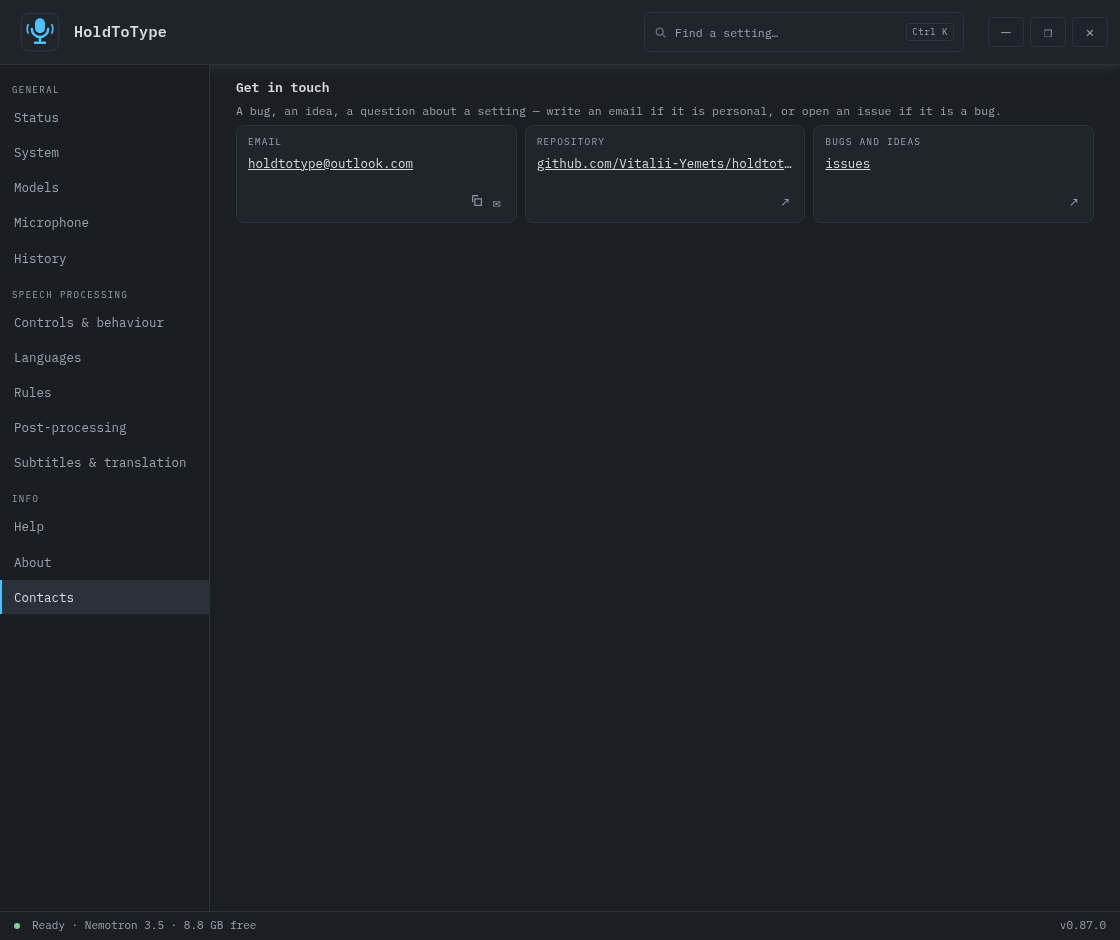
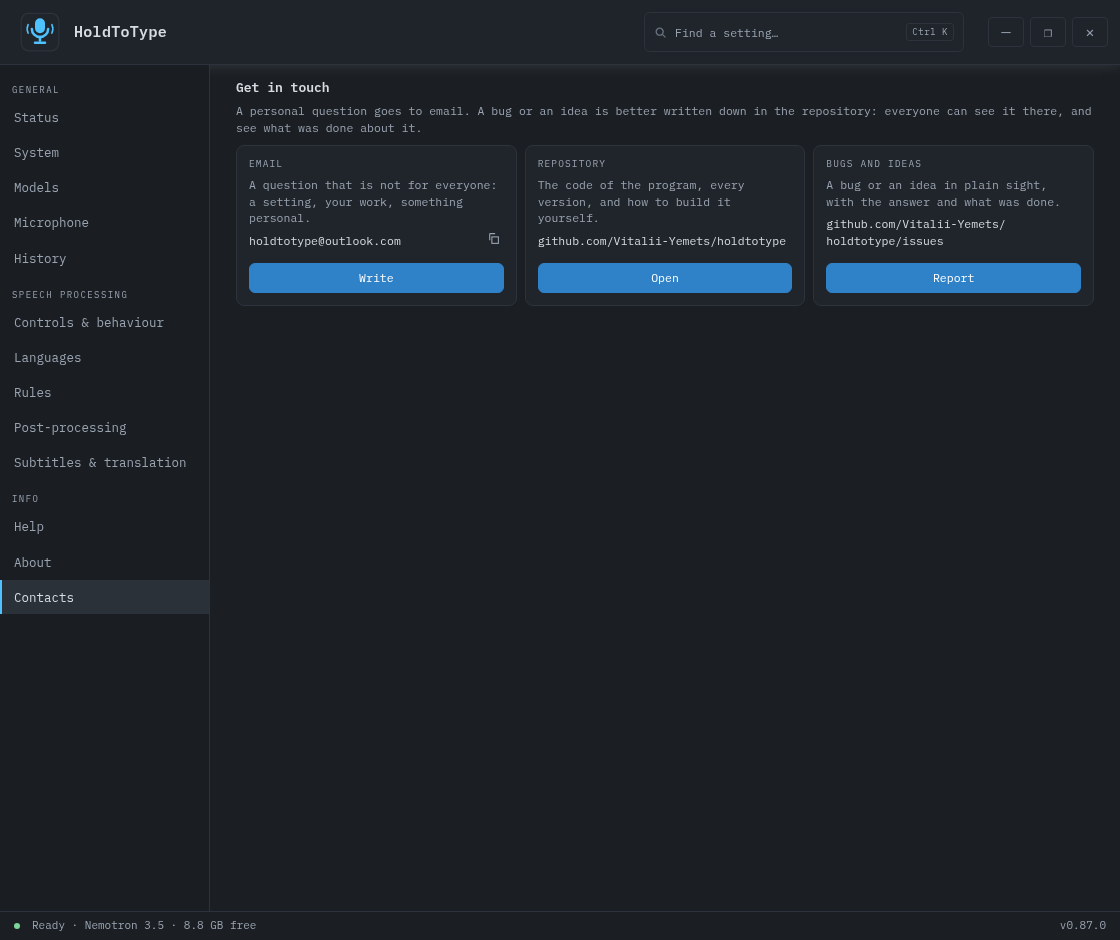
the readme and its system and contacts shots show the design cards and the contact cards

diff --git a/README.md b/README.md
@@ -74,7 +74,7 @@ Every shot below is the Editor design, the default: dark grey with a blue accent
 - 🗣 **Voice commands** — "new line", "new paragraph", "cancel", or your own phrase that drops in any text. "Delete that", said on its own, erases what the program inserted last, if nothing was typed or clicked since and the window is the same. Said at the end of a dictation, "as a heading", "as a list", "with a capital", "in quotes" or "no full stop" shapes that phrase; said on its own, it shapes the next one. Text already in the window is never edited. One button fills the list in your language. They run after the replacements, so prompts and translation get the finished text. In typing mode a line break is typed as a real Enter, which in a chat box sends the message — that is the point of the command. The line breaks the engine puts between its own segments are joined back into spaces first, so only the breaks you asked for reach the keyboard.
 - 🕘 **History of dictations** — off by default; turn it on and the last N dictations stay on this machine as text (never audio), searchable by text or by the program they went into, one click to copy, one to paste it back into the window you came from, one to wipe them all. The list of programs nothing is ever recorded from — password managers, banking apps — sits next to the switch and is never folded away. The retention you set is enforced when the history is opened and whenever you change it, not only when the next dictation arrives.
 - 📖 **Recognition dictionary** — terms and abbreviations hint rare words to Whisper. A starter set of development and internet vocabulary comes preinstalled and follows the recognition language; write your own and it is never touched again. When a dictation is translated, the hint switches to the target language, so the output vocabulary matches the output. Only Whisper models read it — the page says so plainly, since GigaAM, Parakeet and the rest never see the hint.
-- 🎨 **Design and colour, kept apart** — seven designs, all set in one face, IBM Plex Mono, carried inside the exe so they read the same on any machine. Editor is the default: dark grey with a blue accent, filled blue buttons for the main action of each section, grey for the rest, red for the destructive ones. Fluent follows the Windows 11 settings app — light-blue accent, a toggle that fills with the accent and carries a dark knob. Studio is graphite with orange, corners of three and four pixels, the look of an audio editor. Soft stands on light lilac with pill-shaped buttons and a purple toggle, Document on paper with blue kept for the main action and a two-pixel line on top of every card. Neon is violet: its main buttons take a pink-to-cyan gradient, its badges are pink, and the card with the shortcut is framed by the same gradient. Terminal is green on black with brackets around the buttons, square corners and a halo on the text. Each design sets its own corner radius for buttons, fields, cards and key chips, the colours of its toggle in both states, the colours of its badges and of the shortcut keys, the way the level meter moves and what the pill does the moment the text lands: Terminal blinks, Neon flares, Soft bounces, the rest stay still. The window takes the corners its design asks for — rounded, small for Studio, square for Terminal — and a light design carries its light through everything the program draws: the title bar Windows itself paints, the plate, the tray menu, the tray icon and the installer. Colour is offered to Terminal alone — green, amber, blue, pink — and touches nothing but the colour of the window, the plate and the tray icon; the other designs bring their own. Either choice repaints the whole program at once, with no restart. The installer follows the design of the copy it is updating, down to its buttons, toggles and window corners.
+- 🎨 **Design and colour, kept apart** — seven designs, all set in one face, IBM Plex Mono, carried inside the exe so they read the same on any machine. Editor is the default: dark grey with a blue accent, filled blue buttons for the main action of each section, grey for the rest, red for the destructive ones. Fluent follows the Windows 11 settings app — light-blue accent, a toggle that fills with the accent and carries a dark knob. Studio is graphite with orange, corners of three and four pixels, the look of an audio editor. Soft stands on light lilac with pill-shaped buttons and a purple toggle, Document on paper with blue kept for the main action and a two-pixel line on top of every card. Neon is violet: its main buttons take a pink-to-cyan gradient, its badges are pink, and the card with the shortcut is framed by the same gradient. Terminal is green on black with brackets around the buttons, square corners and a halo on the text. Each design sets its own corner radius for buttons, fields, cards and key chips, the colours of its toggle in both states, the colours of its badges and of the shortcut keys, the way the level meter moves and what the pill does the moment the text lands: Terminal blinks, Neon flares, Soft bounces, the rest stay still. The window takes the corners its design asks for — rounded, small for Studio, square for Terminal — and a light design carries its light through everything the program draws: the title bar Windows itself paints, the plate, the tray menu, the tray icon and the installer. Colour is offered to Terminal alone — green, amber, blue, pink — and touches nothing but the colour of the window, the plate and the tray icon; the other designs bring their own. The design is picked with seven small cards, each a tiny window drawn in that design, and either choice repaints the whole program at once, with no restart. The installer follows the design of the copy it is updating, down to its buttons, toggles and window corners.
 - 🗣 **8 UI languages** — English, Ukrainian, German, French, Spanish, Italian, Polish, Russian. Everything is translated: screens, dialogs, the overlay, the tray, the uninstaller and the in-app guide. Switching is instant, "Same as system" follows Windows.
 - 🔊 **Sound themes** — several synthesized cue sets plus Windows system sounds, with preview.
 - ⚡ **Nothing to save, nothing to restart** — every change applies the moment you make it; the Save button is gone. The settings that describe the recognition server — port, threads, server path, remote URL, autostart — restart the recognizer itself, which takes about a second; the app is never asked to be restarted. A setting is written to disk before it is applied: if the file cannot be written, the old values stay in force and the window says so instead of pretending. A value the program refuses — a port outside 1024–65535, an empty list of languages for the translation question — is reported, not silently dropped.
@@ -154,10 +154,10 @@ Left-click the tray icon to open the settings window. Thirteen sections in three
 | **Rules** | where punctuation comes from, the recognition dictionary (read by Whisper models only — the page says so), replacements — each one pinned to a language or serving them all — and voice commands; each list has its own search box and add button and shows its entries as removable chips, and the dialog that adds a command fills in the usual ones for your language with one button |
 | **Post-processing** | the editor model, picked from a list of the installed ones, with its size and the memory, and two plates that lead to the Hugging Face search and to the installed models on the Models tab, the chain of editing prompts with their shortcuts, and the external OpenAI-compatible server for those who want one |
 | **Subtitles & translation** | the button that starts and stops subtitles, on the right of a line saying what they are doing — off, loading the model, listening and how the text arrives, or restarting; a shortcut of their own; the language of what you listen to, with the model it gets and whether the words come as they are spoken or after each phrase, a plain warning when that model is a Whisper one that will lag far behind on a processor or is not installed, with a jump to its language on “Languages”; translation as a switch, with its language — one of the eight — kept while it is off, and one line under the heading that says why nothing is translated: the model or a language pack is not downloaded or is still downloading, the server is not set up, or the translation language is the speech language itself; the translator, a block of its own with one of three cards — Quality with the translation model, what it needs, whether it is installed and its size, the percent and a cancel cross while it downloads, why this computer cannot run it or why it did not start, and a plate that opens its terms of use; Fast with the language pairs you added, each with its state, its download and its removal, the disk space they take, and a dialog that adds a pair, with the sizes and a word about pairs that are translated in two steps through English; External server with the post-processing server, its test, its editing and its clearing — and a question that names the size before a translator that is not downloaded yet is chosen; the window block: the layout as three picture cards — the parts of a translated window in two rows, in two columns, or the translation alone in an unsplit window — the rows of text — in each part of the window when translation is on — the text size as three tiles of letters, small, medium and large, the window's place on the plate's picture of a screen with a spot of your own and the monitor, and a button that forgets the sizes set by the mouse; saving the transcript and a button that opens its folder |
-| **System** | three groups without headings — how the app looks (interface language, design, colour), how it starts and keeps itself current (start with Windows, check for updates, check now), and the maintenance buttons (open the log, re-read config.json, reset the settings), all of one width. Below, the recognition server as two cards that are one choice: a radio in each header (square on the terminal design, round on the others), the whole card clickable, and the one you did not pick keeps its colours so its port and address stay readable. On this computer — threads, autostart, port and the path to whisper-server, edited in a window of its own — or on another one, with its address. Choosing the remote one without an address is an honest failure: the Status card goes red, the badge beside System turns red, and the status bar says recognition is unavailable |
+| **System** | three groups without headings — how the app looks (interface language, design picked from seven small cards that each show a tiny window in that design, colour), how it starts and keeps itself current (start with Windows, check for updates, check now), and the maintenance buttons (open the log, re-read config.json, reset the settings), all of one width. Below, the recognition server as two cards that are one choice: a radio in each header (square on the terminal design, round on the others), the whole card clickable, and the one you did not pick keeps its colours so its port and address stay readable. On this computer — threads, autostart, port and the path to whisper-server, edited in a window of its own — or on another one, with its address. Choosing the remote one without an address is an honest failure: the Status card goes red, the badge beside System turns red, and the status bar says recognition is unavailable |
 | **Help** | the manual: eighteen sections written for people rather than for the interface — what happens after you release the keys, what each tab does, what every option changes and what it costs, what lives in the app folder, what leaves for the internet, and what to do when something misbehaves, with mock-ups of the plate, the cards and the fields drawn inline. The contents sit in a column on the right that follows you as you read; on a narrow window an icon in the corner widens the window to bring them back |
 | **About** | the version, what the app is made of, and every external dependency — engine, library, font, catalogue — with its licence, its address and a plain line about what it does here and when it runs |
-| **Contacts** | three cards: the mail address, which opens your mail program and copies with one icon, the repository, and the page for bugs and ideas |
+| **Contacts** | three cards of equal height — the mail address, the repository and the page for bugs and ideas — each saying what it is for, with the address spelled out in full as plain text and one button at the bottom: Write opens your mail program, Open the repository, Report the page for bugs and ideas; an icon beside the mail address copies it |
 
 The title bar carries three buttons — hide to the tray, fill the screen, close — and the filled window comes back to the size it had; a size set with the mouse is remembered and filling the screen never replaces it. The window never gets smaller than 760×500, so the rows and cards keep the shape they were drawn for, and never larger than 1120×940, where the widest row has all the room it needs — filling the screen stops at that size and centres. A fresh install opens at 860×620. The window is built off the screen and moved into place only once the page has drawn itself, so it never opens as a bare frame that fills in afterwards. Every edge and corner resizes, the top one included. Everything applies the moment you change it — there is no Save button and no dialog about unsaved changes. A shortcut is one control, not a chip beside a button: the keys are the label of the button you press to change them, and the small window that asks for the new combination sizes itself to what it says and sets the words in the middle of it. Questions the app asks are proper dialogs: the window behind is out of reach while one is open, Tab stays inside it, Escape means no, and the focus starts on the safe answer. Settings that describe the recognition server (port, threads, server path, remote URL, autostart) restart the recognizer in place, so nothing waits for an app restart. Long names on the Status cards are cut with an ellipsis so the cards keep one line and their buttons stand level; the whole name waits under the pointer, in a hint drawn in the current skin's colours rather than the system's. Errors are written in words — "no connection to huggingface.co", "the disk is full" — with the library's own text kept for the log; a shortcut Windows has already taken is called out the moment you pick it. Settings that do not apply in the current mode are greyed out automatically, and so are buttons with nothing to act on — *Copy* with no last dictation, *Clear* with an empty history. Models are called the same everywhere — "Small", "GigaAM v3" — on the Status screen, in the preset rows, in the status bar and in the question before a deletion.
 
